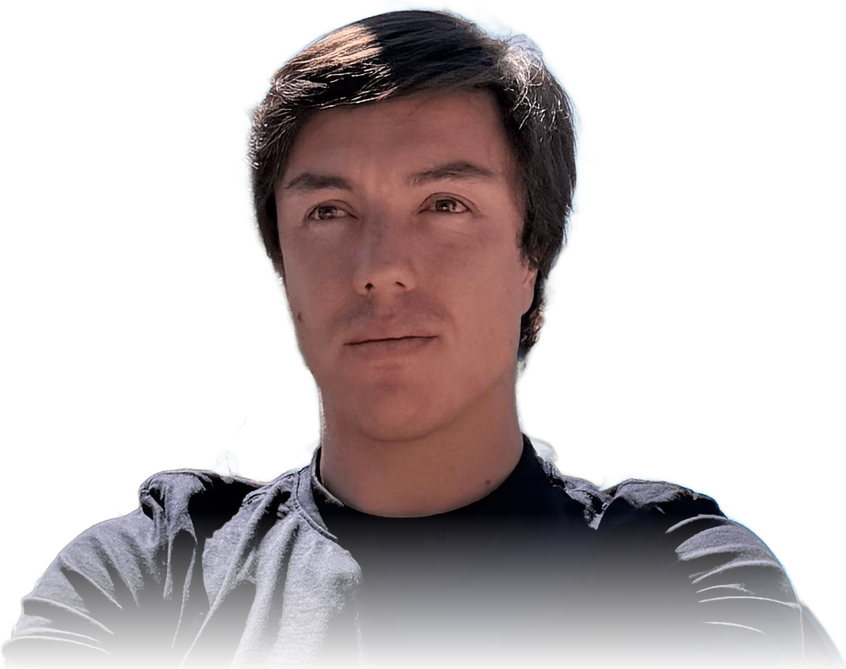
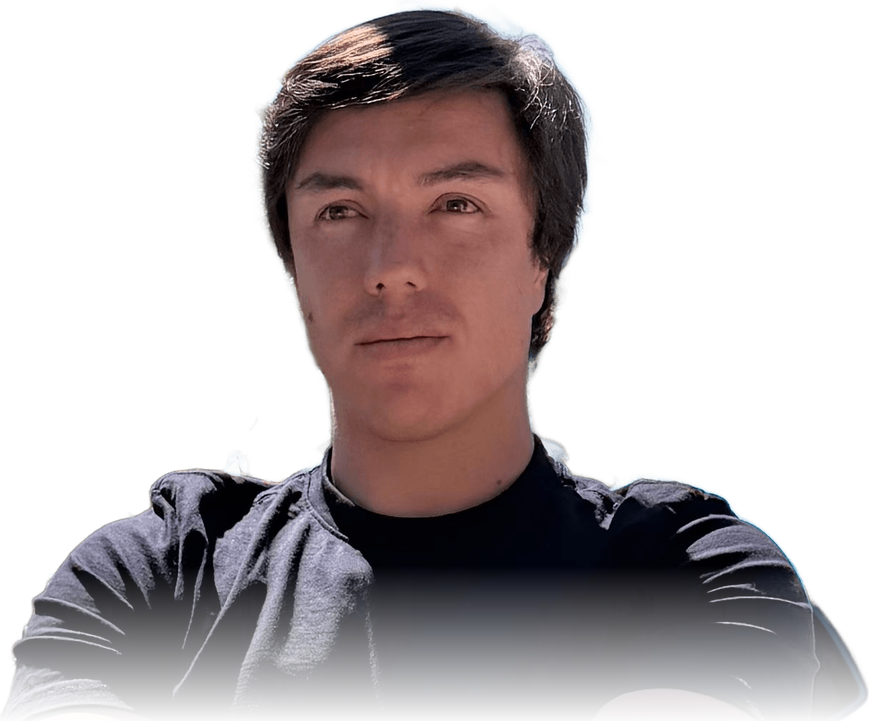
feat: retrato mas pequeno y encuadre intermedio (mas brazos)

diff --git a/src/components/sections/Hero.tsx b/src/components/sections/Hero.tsx
@@ -58,16 +58,16 @@ export function Hero({ locale }: { locale: Locale }) {
           {/* Retrato recortado, directo sobre el papel */}
           <div className="relative order-1 flex justify-center md:order-2 md:col-span-5 md:justify-end">
             <div
-              className="relative w-[80%] max-w-[330px] opacity-0 animate-fade-up md:w-full md:max-w-none"
+              className="relative w-[58%] max-w-[230px] opacity-0 animate-fade-up md:w-full md:max-w-[290px]"
               style={{ animationDelay: "0.2s" }}
             >
               <Image
                 src="/mateo-portrait.png"
                 alt="Mateo Páramo"
-                width={846}
-                height={669}
+                width={869}
+                height={721}
                 priority
-                sizes="(max-width: 768px) 80vw, 40vw"
+                sizes="(max-width: 768px) 58vw, 290px"
                 className="h-auto w-full select-none [filter:drop-shadow(0_16px_28px_rgba(26,25,22,0.12))]"
               />
             </div>
